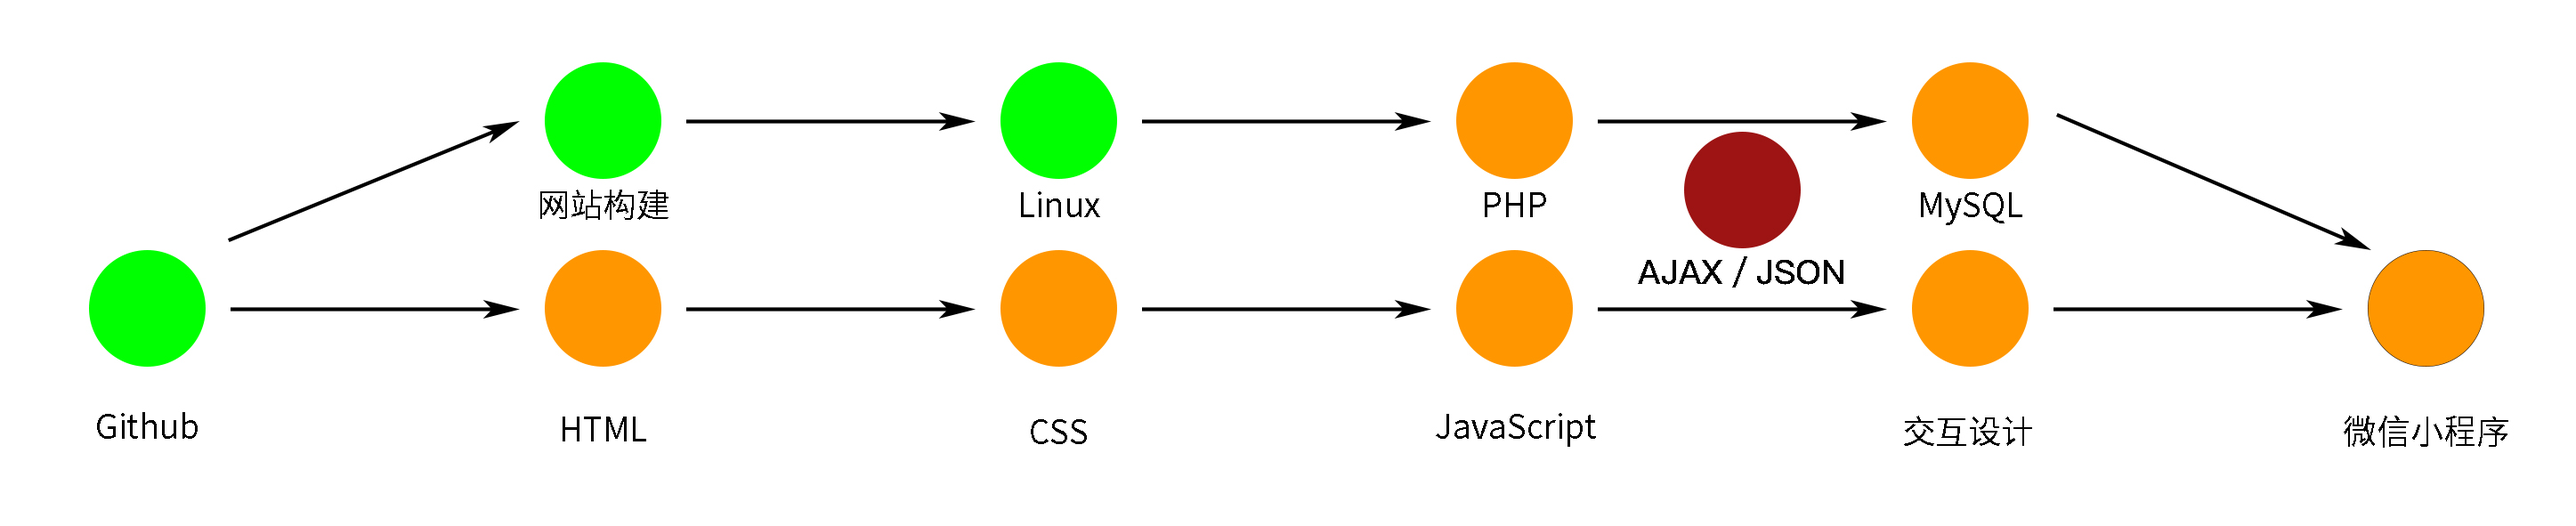
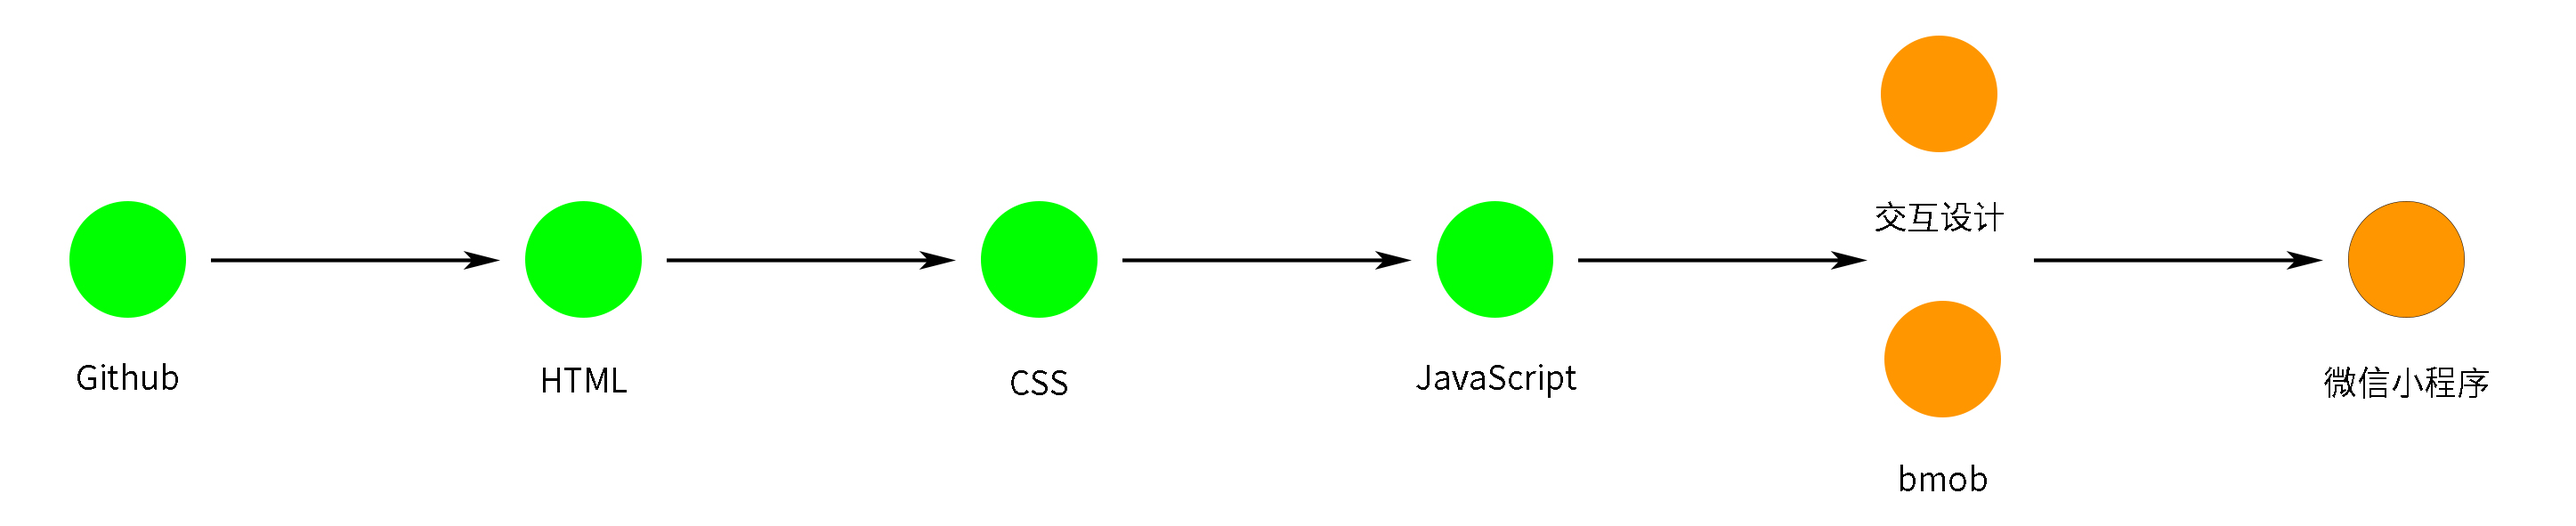
完善文档

diff --git a/README.md b/README.md
@@ -2,18 +2,10 @@
 <body>
 <h1>小程序开发指南</h1>
 <h2>AppID(小程序ID): wx2994ad5bb8b672e0</h2>
-<h2>分工：</h2>
-<p>WXML：李德莹、雷凡丁</p>
-<p>WXSS：关迎丹</p>
-<p>JavaScript：施念</p>
-<p>API：徐泽文</p>
-<p>设计：朱宇旻</p>
-<p>后端：陈泰然</p>
-<h2>开发进程：</h2>
 <img src="https://github.com/chentairan/Wechat/blob/master/image/流程图.jpg">
 </p>
-<p>黄色圆代表正在进行，红色圆代表待进行，绿色圆代表已完成，AJAX和JSON待确定</p>
-<p><a href=https://github.com/chentairan/Wechat/blob/master/开发环境配置教程.md>开发环境配置教程</a><p>
+<p>后端文档：http://docs.bmob.cn/data/wechatApp/b_developdoc/doc/index.html</p>
+<p>黄色圆代表正在进行，红色圆代表待进行，绿色圆代表已完成</p>
 <h1>目录：</h1>
 <a href="#C1">学习指南</a>
 <ul type="disc">
